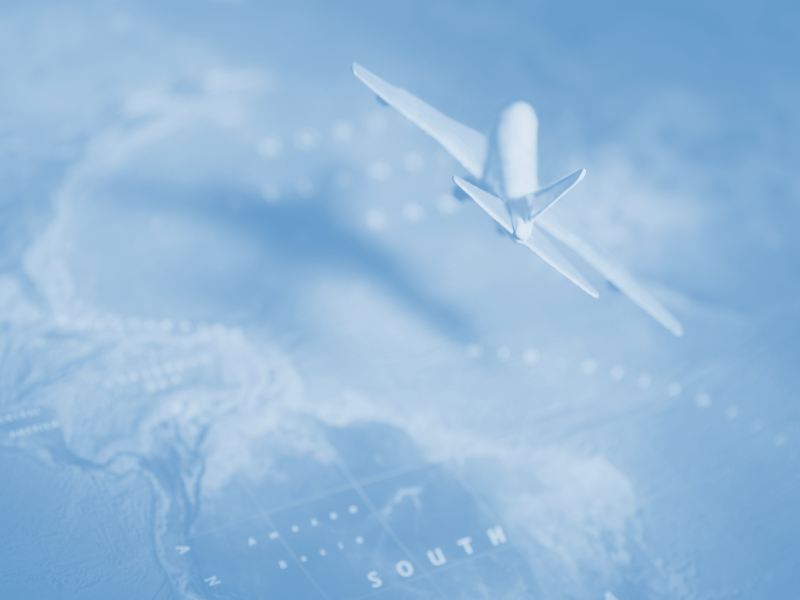
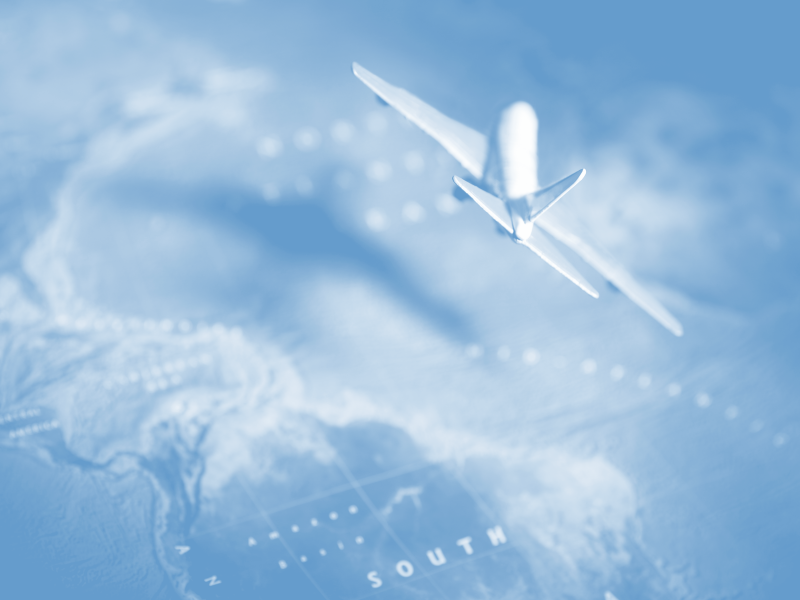
Updated about dialog

diff --git a/Flightmap/Flightmap.cpp b/Flightmap/Flightmap.cpp
@@ -52,7 +52,7 @@ BOOL CFlightmapApp::InitInstance()
 
 	// Registry auslesen
 	SetRegistryBase();
-	m_UseNauticalMiles = GetInt(_T("UseNauticalMiles"), TRUE);
+	m_UseStatuteMiles = GetInt(_T("UseStatuteMiles"), FALSE);
 	m_ReduceVisuals = GetInt(_T("ReduceVisuals"), FALSE);
 	m_nTextureSize = GetInt(_T("TextureSize"), 0);
 	m_nMaxTextureSize = GetInt(_T("MaxTextureSize"), FMTexture4096);
@@ -83,7 +83,7 @@ INT CFlightmapApp::ExitInstance()
 {
 	if (m_AppInitialized)
 	{
-		WriteInt(_T("UseNauticalMiles"), m_UseNauticalMiles);
+		WriteInt(_T("UseStatuteMiles"), m_UseStatuteMiles);
 		WriteInt(_T("ReduceVisuals"), m_ReduceVisuals);
 		WriteInt(_T("GlobeHQModel"), m_GlobeHQModel);
 		WriteInt(_T("GlobeLighting"), m_GlobeLighting);
@@ -126,5 +126,9 @@ void CFlightmapApp::KillFrame(CGlasWindow* pVictim)
 void CFlightmapApp::OnAppAbout()
 {
 	CAboutDlg dlg(m_pActiveWnd);
-	dlg.DoModal();
+	if (dlg.DoModal()==IDOK)
+	{
+		m_UseStatuteMiles = dlg.m_UseStatuteMiles;
+		m_ReduceVisuals = dlg.m_ReduceVisuals;
+	}
 }

diff --git a/Flightmap/CAboutDlg.cpp b/Flightmap/CAboutDlg.cpp
@@ -15,6 +15,9 @@ extern AFX_EXTENSION_MODULE LFCommDlgDLL;
 CAboutDlg::CAboutDlg(CWnd* pParent)
 	: FMDialog(IDD_ABOUT, FMDS_Blue, pParent)
 {
+	m_UseStatuteMiles = theApp.m_UseStatuteMiles;
+	m_ReduceVisuals = theApp.m_ReduceVisuals;
+
 	m_pLogo = new CGdiPlusBitmapResource();
 	ENSURE(m_pLogo->Load(IDB_FLIGHTMAP, _T("PNG"), AfxGetResourceHandle()));
 
@@ -24,6 +27,9 @@ CAboutDlg::CAboutDlg(CWnd* pParent)
 void CAboutDlg::DoDataExchange(CDataExchange* pDX)
 {
 	FMDialog::DoDataExchange(pDX);
+
+	DDX_Radio(pDX, IDC_NAUTICALMILES, m_UseStatuteMiles);
+	DDX_Check(pDX, IDC_REDUCEVISUALS, m_ReduceVisuals);
 
 	BOOL EnableAutoUpdate;
 	INT Interval;

diff --git a/FMCommDlg/FMDialog.cpp b/FMCommDlg/FMDialog.cpp
@@ -74,7 +74,7 @@ void FMDialog::OnEraseBkgnd(CDC& dc, Graphics& g, CRect& rect)
 
 		g.DrawImage(m_pBackdrop->m_pBitmap, rect.Width()-l, rect.Height()-h, l, h);
 
-		SolidBrush brush1(Color(180, 255, 255, 255));
+		SolidBrush brush1(Color(168, 255, 255, 255));
 		g.FillRectangle(&brush1, 0, 0, m_BackBufferL, Line);
 		brush1.SetColor(Color(224, 205, 250, 255));
 		g.FillRectangle(&brush1, 0, Line++, m_BackBufferL, 1);

diff --git a/Flightmap/CAboutDlg.h b/Flightmap/CAboutDlg.h
@@ -16,6 +16,9 @@ public:
 
 	virtual void DoDataExchange(CDataExchange* pDX);
 
+	BOOL m_UseStatuteMiles;
+	BOOL m_ReduceVisuals;
+
 protected:
 	virtual void OnEraseBkgnd(CDC& dc, Graphics& g, CRect& rect);
 

diff --git a/Flightmap/Flightmap.h b/Flightmap/Flightmap.h
@@ -35,7 +35,7 @@ public:
 	CList<CGlasWindow*> m_MainFrames;
 	CString m_PathGoogleEarth;
 
-	BOOL m_UseNauticalMiles;
+	BOOL m_UseStatuteMiles;
 
 	UINT m_nTextureSize;
 	UINT m_nMaxTextureSize;
